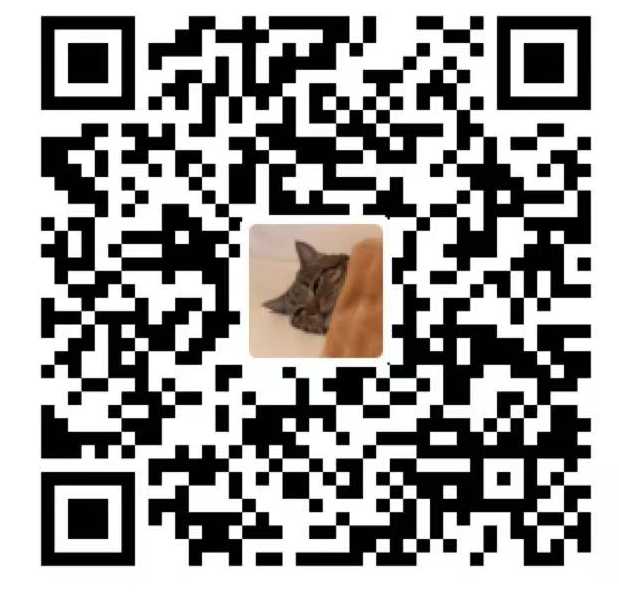
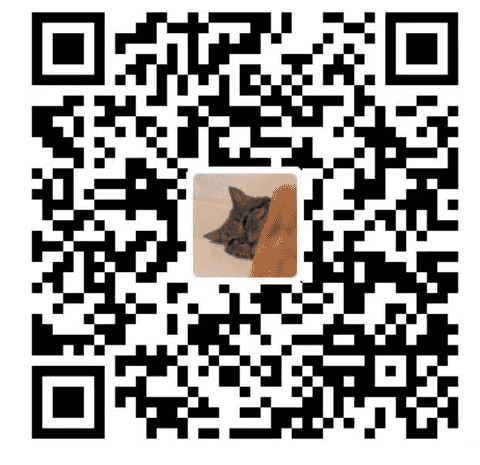
perf(assets): 二维码压缩 + 平台卡片数量改为封面右下角标签
- 三张二维码 538KB → 75KB（PNG 调色板 16 色，480px，donate/alipay 经
  jsQR 解码校验压缩前后内容完全一致）
- 平台卡片的游戏数量从文字区移到封面右下角，0 款的平台不再显示任何标签，
  文字区只保留名称/简介/年份/厂商
- 新增 .count-badge 样式与浅色主题白底深字变体
- 新增 platform.gamesBadge 文案，六语言同步

diff --git a/web/src/i18n.tsx b/web/src/i18n.tsx
@@ -47,6 +47,7 @@ const SYS: Record<LocaleId, Record<string, string>> = {
     'nav.platforms': '游戏平台',
     'platforms.count': '{n} 个平台',
     'platform.noGames': '暂无游戏',
+    'platform.gamesBadge': '{n} 款',
     'nav.favorites': '我的收藏',
     'nav.admin': '管理后台',
     'nav.login': '登录',
@@ -159,6 +160,7 @@ const SYS: Record<LocaleId, Record<string, string>> = {
     'nav.platforms': '遊戲平台',
     'platforms.count': '{n} 個平台',
     'platform.noGames': '暫無遊戲',
+    'platform.gamesBadge': '{n} 款',
     'nav.favorites': '我的收藏',
     'nav.admin': '管理後台',
     'nav.login': '登入',
@@ -271,6 +273,7 @@ const SYS: Record<LocaleId, Record<string, string>> = {
     'nav.platforms': 'Platforms',
     'platforms.count': '{n} platforms',
     'platform.noGames': 'No games yet',
+    'platform.gamesBadge': '{n} games',
     'nav.favorites': 'Favorites',
     'nav.admin': 'Admin',
     'nav.login': 'Sign in',
@@ -383,6 +386,7 @@ const SYS: Record<LocaleId, Record<string, string>> = {
     'nav.platforms': 'ゲーム機',
     'platforms.count': '{n} 機種',
     'platform.noGames': 'ゲームなし',
+    'platform.gamesBadge': '{n} 本',
     'nav.favorites': 'お気に入り',
     'nav.admin': '管理画面',
     'nav.login': 'ログイン',
@@ -495,6 +499,7 @@ const SYS: Record<LocaleId, Record<string, string>> = {
     'nav.platforms': '게임기',
     'platforms.count': '{n}개 기종',
     'platform.noGames': '게임 없음',
+    'platform.gamesBadge': '{n}개',
     'nav.favorites': '즐겨찾기',
     'nav.admin': '관리자',
     'nav.login': '로그인',
@@ -607,6 +612,7 @@ const SYS: Record<LocaleId, Record<string, string>> = {
     'nav.platforms': 'Платформы',
     'platforms.count': 'Платформ: {n}',
     'platform.noGames': 'Игр пока нет',
+    'platform.gamesBadge': '{n} шт.',
     'nav.favorites': 'Избранное',
     'nav.admin': 'Админка',
     'nav.login': 'Войти',

diff --git a/web/src/components/PlatformCard.tsx b/web/src/components/PlatformCard.tsx
@@ -61,6 +61,11 @@ export function PlatformCard({ platform }: { platform: PlatformCardData }) {
           )}
 
           <div className="pointer-events-none absolute inset-0 bg-gradient-to-t from-black/55 to-transparent opacity-70" />
+
+          {/* 游戏数量：右下角标签，0 款不显示，完全不占文字区 */}
+          {count > 0 && (
+            <span className="count-badge">{t('platform.gamesBadge', { n: count })}</span>
+          )}
         </div>
 
         <div className="card-body card-body--platform">
@@ -78,17 +83,6 @@ export function PlatformCard({ platform }: { platform: PlatformCardData }) {
 
           {/* 简介：左对齐，字号只比名称小一档，颜色与名称一致 */}
           <p className="card-desc card-desc--platform mt-1.5 text-white">{desc}</p>
-
-          {/* 游戏数量：有游戏显示数量，无游戏显示「暂无游戏」 */}
-          <span
-            className={`mt-1.5 inline-block w-fit border px-1.5 py-0.5 font-pixel text-[8px] leading-none ${
-              count > 0
-                ? 'border-white/15 bg-black/30 text-white/60'
-                : 'border-line bg-white/[0.03] text-white/35'
-            }`}
-          >
-            {count > 0 ? t('library.count', { n: count }) : t('platform.noGames')}
-          </span>
 
           {/* 底行：年份方框居左，厂商居右，同一行不再多占高度 */}
           <div className="mt-auto flex items-end justify-between gap-2">

diff --git a/web/src/index.css b/web/src/index.css
@@ -434,6 +434,15 @@ textarea {
     text-shadow: 0 0 8px rgba(76, 201, 255, 0.35);
   }
 
+  /* 平台卡片右下角的游戏数量标签：不占文字区高度，压在封面右下角 */
+  .count-badge {
+    @apply absolute bottom-1.5 right-1.5 z-10 inline-flex items-center border px-1.5 py-1 font-pixel text-[10px] leading-none tracking-wide;
+    border-color: rgba(255, 255, 255, 0.28);
+    background: rgba(4, 10, 24, 0.86);
+    color: #ffffff;
+    text-shadow: 0 0 8px rgba(255, 255, 255, 0.3);
+  }
+
   /* 首页平台分区：5 列，卡片最大尺寸随视口高度收缩，保证两行能整屏放下 */
   .platform-grid {
     display: grid;
@@ -855,6 +864,14 @@ html[data-theme='light'] .genre-badge {
   border-color: rgba(10, 111, 168, 0.45) !important;
   background: rgba(255, 255, 255, 0.9) !important;
   color: #0a5f8f !important;
+  text-shadow: none !important;
+}
+
+/* 浅色主题下数量标签改白底深字，压在封面上仍清晰 */
+html[data-theme='light'] .count-badge {
+  border-color: rgba(10, 17, 34, 0.35) !important;
+  background: rgba(255, 255, 255, 0.92) !important;
+  color: #101a2c !important;
   text-shadow: none !important;
 }
 

diff --git a/web/public/qr/README.md b/web/public/qr/README.md
@@ -17,6 +17,8 @@
   如果你只有 `.jpg`，请把文件名改成 `donate.png`，或者直接改成对应扩展名并同步告诉开发者。
 - 图片**自适应大小与比例**：代码用 `object-contain` 等比缩放，不会拉伸变形，也不会定死尺寸。
 - 推荐尺寸：收款码约 **400×400** 或更大、清晰即可；长宽比任意。
+- 建议单张控制在 **100KB 以内**：二维码本身就是黑白线条，导出时用 PNG + 调色板（16 色）压缩即可，
+  体积能小一个数量级，扫码效果没有区别。本目录自带的三个码已按此方式压到 20~40KB。
 - 未放置的图片，对应位置会显示占位提示文字，不会出现破图。
 
 ## 底部栏三个码位顺序（从左到右）
